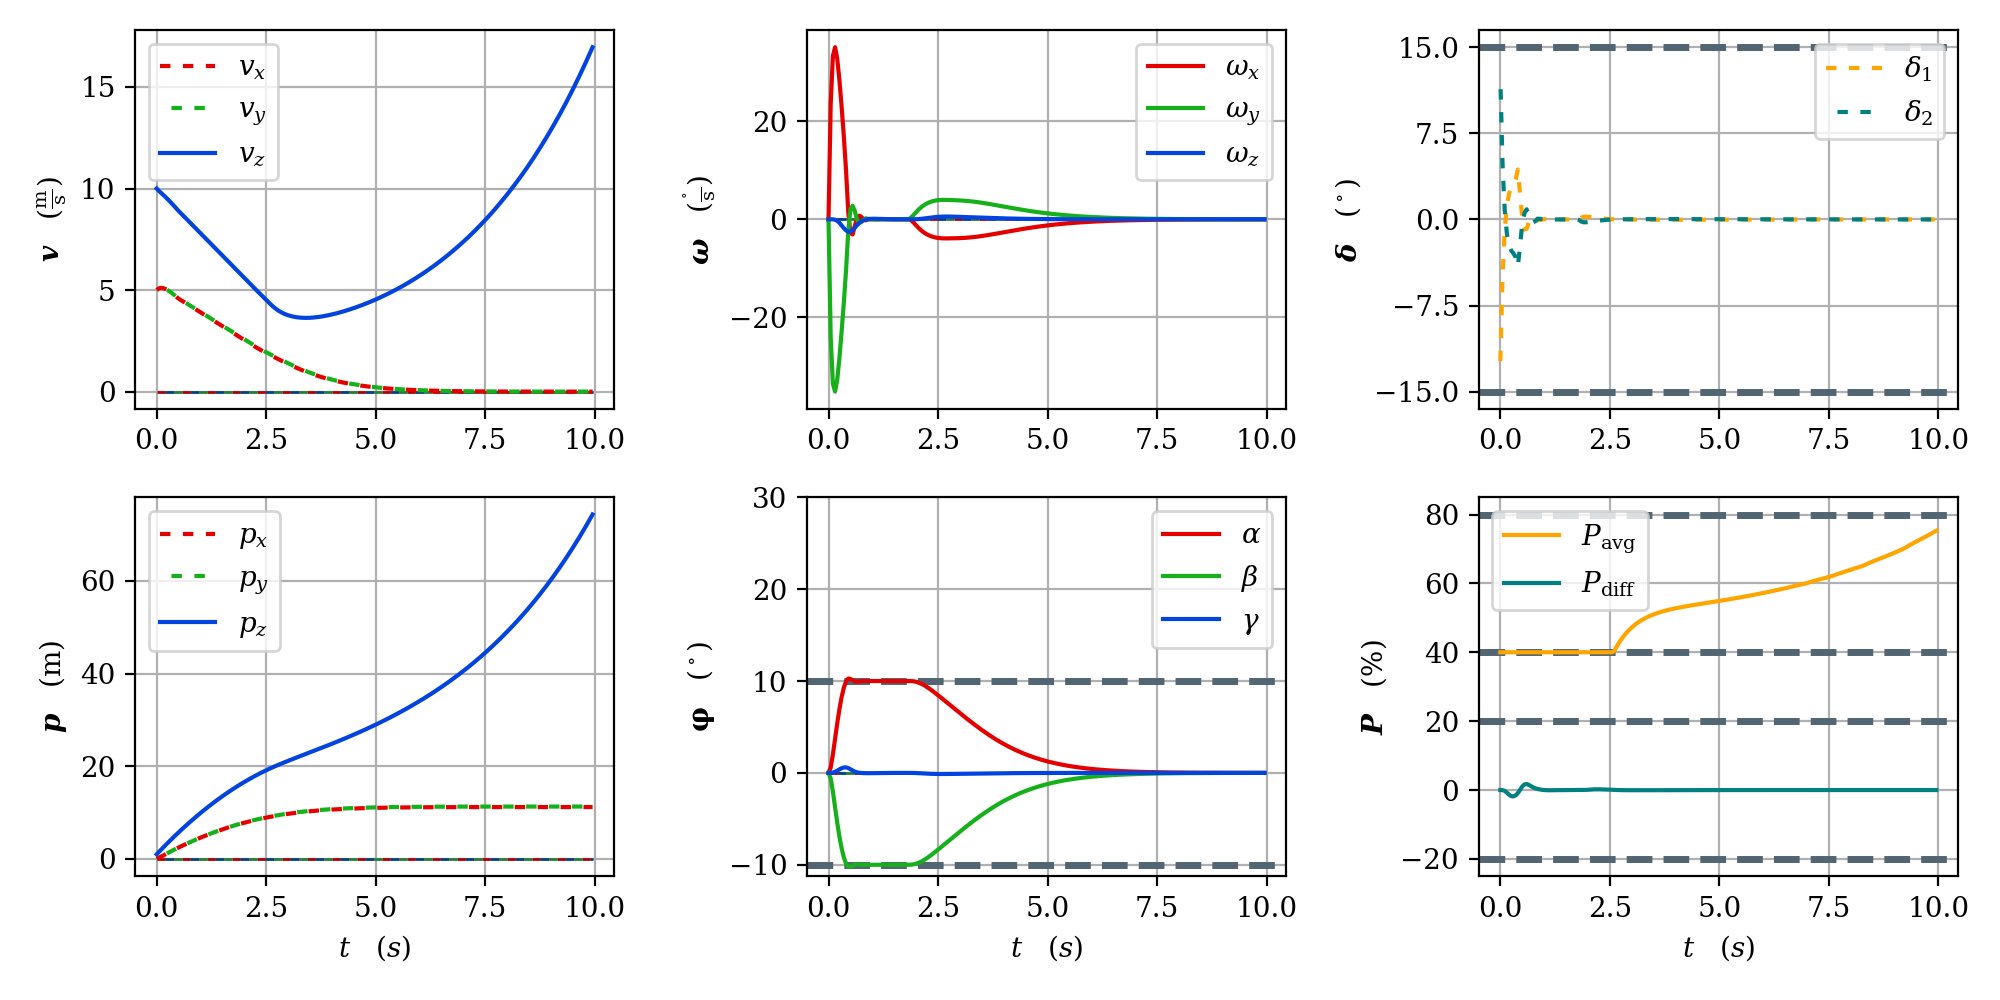
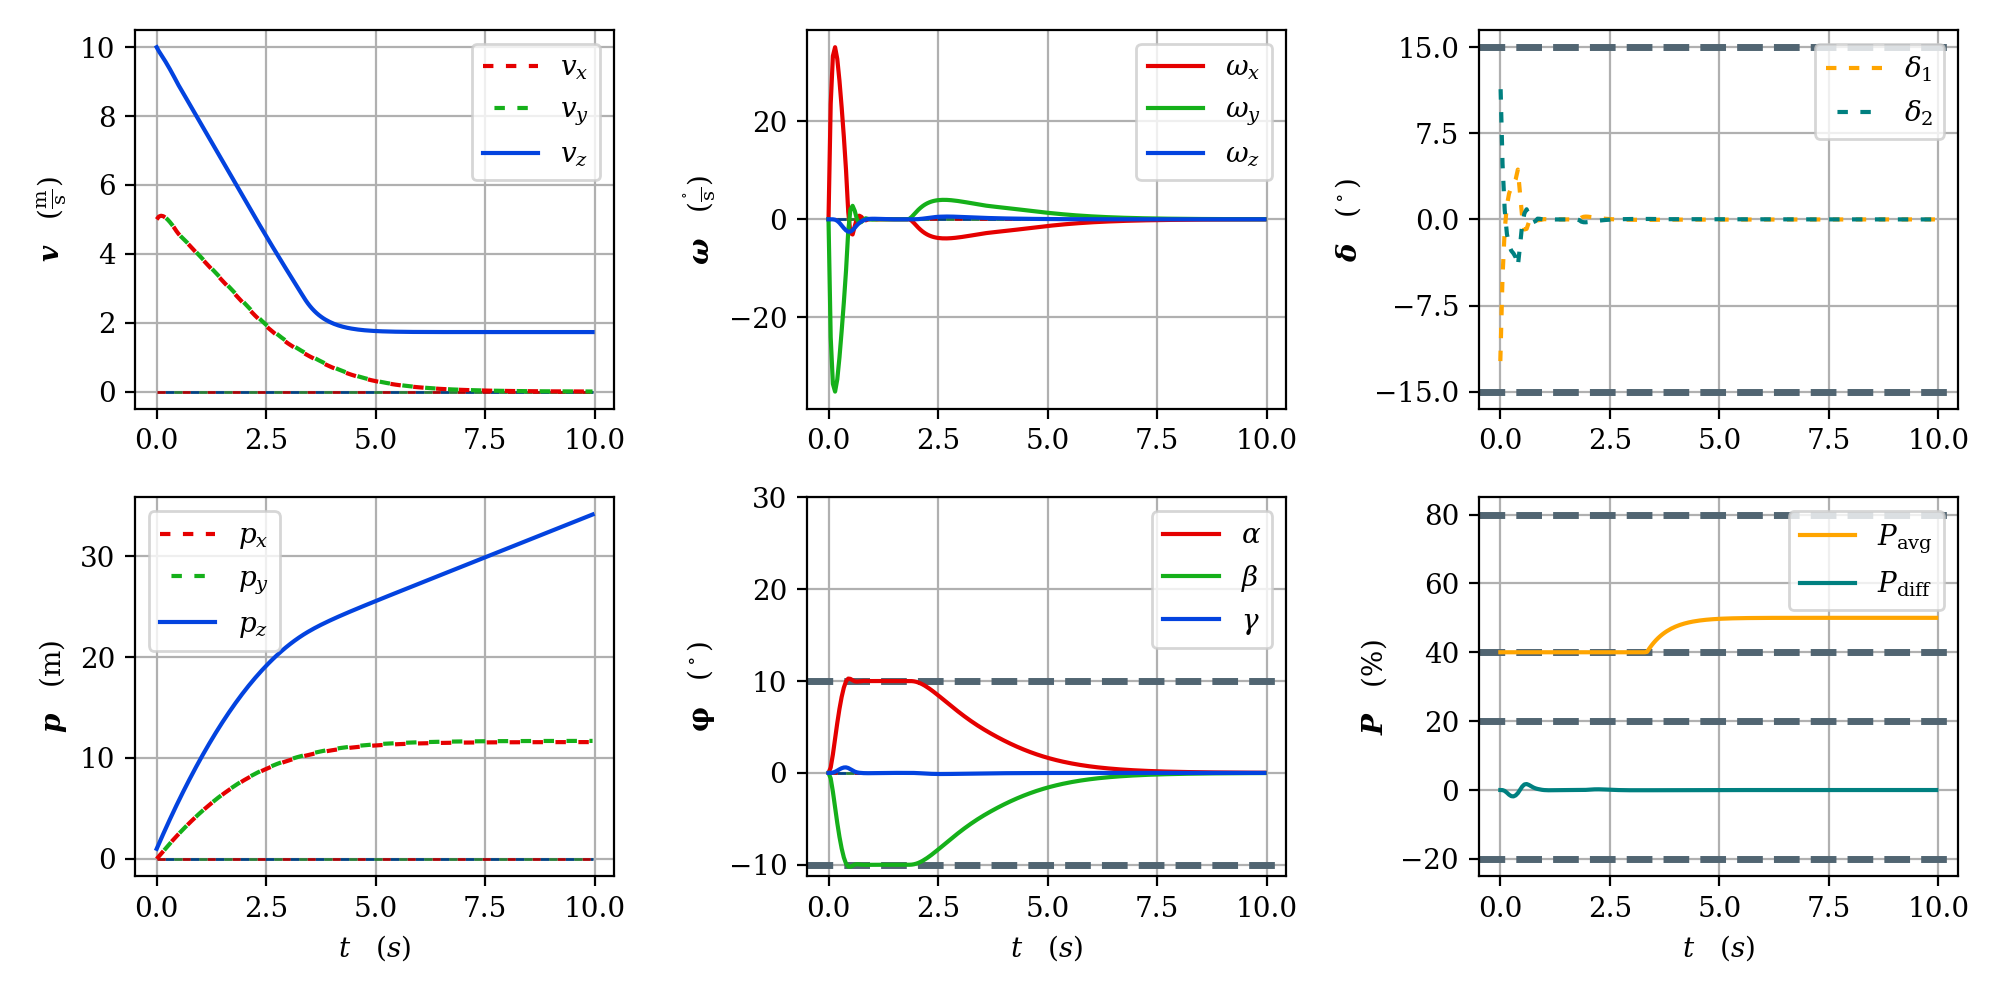
deliverable 5.1 (needs more tuning)

diff --git a/project/Deliverable_5_1/LinearMPC/MPCControl_base.py b/project/Deliverable_5_1/LinearMPC/MPCControl_base.py
@@ -35,6 +35,8 @@ class MPCControl_base:
 		subB = B[np.meshgrid(self.x_ids, self.u_ids)].T
 		self.A, self.B = self._discretize(subA, subB, Ts)
 
+
+
 		# Create optimization variables and parameters with delta formulation
 
 		self.xs_cst	 = cp.Constant(self.xs.reshape(self.NX, 1), name='xs')
@@ -42,10 +44,15 @@ class MPCControl_base:
 		self.dx_var	 = cp.Variable((self.NX, self.N + 1), name='dx')
 		self.x0_par	 = cp.Parameter((self.NX, 1), name='x0')
 		self.xt_par  = cp.Parameter((self.NX, 1), name='xt')
-		self.d_par   = cp.Parameter((1, 1), name='d')
+		self.d_par = cp.Parameter((1, 1), name='d')
 		self.d_par.value = np.zeros((1, 1))
+		self.Bd_par = cp.Parameter((self.NX, 1), name='Bd')
+		self.Bd_par.value = np.zeros((self.NX, 1))
 
-		self.us_cst	= cp.Constant(self.us.reshape(self.NU, 1), name='us')
+
+
+		self.us_par = cp.Parameter((self.NU, 1), name='us')
+		self.us_par.value = self.us.reshape(self.NU, 1)
 		self.u_var 	= cp.Variable((self.NU, self.N), name='u')
 		self.du_var	= cp.Variable((self.NU, self.N), name='du')
 
@@ -59,15 +66,17 @@ class MPCControl_base:
 
 		# Define delta formulation
 
+		dist_term = (self.Bd_par @ self.d_par) @ np.ones((1, self.N))
+
 		dynamics = [
 			self.dx_var			== self.x_var - self.xs_cst - self.xt_par,
-			self.du_var			== self.u_var - self.us_cst,
+			self.du_var == self.u_var - self.us_par,
 			self.dx_var[:, 0] 	== self.x0_par[:, 0] - self.xs_cst[:, 0] - self.xt_par[:, 0],
-			self.dx_var[:, 1:] 	== self.A @ self.dx_var[:, :-1] + self.B @ self.du_var + self.B @ self.d_par,
-		]
+			self.dx_var[:, 1:] == self.A @ self.dx_var[:, :-1] + self.B @ self.du_var + dist_term,
+		 ]
 
 		# Create optimization problem
-		self.setup_estimator()
+
 		terminalCost, constraints = self._get_terminal_cost_and_constraints()
 		self.ocp = cp.Problem(cp.Minimize(cost + terminalCost), dynamics + constraints)
 
@@ -78,12 +87,6 @@ class MPCControl_base:
 	@abstractmethod
 	def _get_terminal_cost_and_constraints(self) -> tuple[Expression, list[Constraint]]:
 		pass
-
-	def setup_estimator(self):
-		pass
-
-	def update_estimator(self, x_data: np.ndarray, u_data: np.ndarray) -> None:
-		self.d_estimate = 0
 
 	@staticmethod
 	def _max_invariant_set(O: Polyhedron, A_cl: np.ndarray, max_iter: int = 30) -> Polyhedron:
@@ -111,37 +114,41 @@ class MPCControl_base:
         u_target: np.ndarray = None
 	) -> tuple[np.ndarray, np.ndarray, np.ndarray]:
 		
-		# Allocate outputs
+		is_zvel = (self.NX == 1) and (int(self.x_ids[0]) == 8) and (int(self.u_ids[0]) == 2)
+
+		self.d_par.value = np.zeros((1, 1))
+
+		if is_zvel:
+			if not hasattr(self, "K"):
+				self.setup_estimator()
+				# Shift steady-state input to cancel disturbance
+				self.us_par.value = self.us.reshape(self.NU, 1) - self.d_estimate / self.B[0, 0]
+
+			if not hasattr(self, "u_last"):
+				self.u_last = np.array([float(self.us[0])])
+
+			self.update_estimator(x0, self.u_last)
+			self.d_par.value = np.array([[self.d_estimate]])
 
 		x_traj = np.zeros((self.NX, self.N + 1))
 		u_traj = np.zeros((self.NU, self.N))
 		x_traj[:, 0] = x0
 
-		# Estimate disturbance
-
-		self.update_estimator()
-		self.d_par.value[0, 0] = self.d_estimate
-
-		# Set target
-
 		self.xt_par.value = x_target.reshape(self.NX, 1)
 
-		# Closed-loop simulation
+		# Solve optimization problem
+		self.x0_par.value = x0.reshape(self.NX, 1)
+		self.ocp.solve(solver=cp.PIQP)
+		assert self.ocp.status == cp.OPTIMAL
 
-		for k in range(self.N):
-
-			# Solve step
-
-			self.x0_par.value = x_traj[:, k].reshape(self.NX, 1)
-			self.ocp.solve(solver=cp.PIQP)
-			assert self.ocp.status == cp.OPTIMAL
-
-			# Save trajectory
-
-			x_traj[:, k + 1] = self.x_var.value[:, 1]
-			u_traj[:, k] = self.u_var.value[:, 0]
-
-		# Return predicted input and trajectories
-
+		# Return open loop prediction
+		x_traj = self.x_var.value
+		u_traj = self.u_var.value
 		u0 = u_traj[:, 0]
+		
+
+		if is_zvel:
+			self.u_last = np.array([float(u0[0])])
+	
 		return u0, x_traj, u_traj
+

diff --git a/project/Deliverable_5_1/LinearMPC/MPCControl_zvel.py b/project/Deliverable_5_1/LinearMPC/MPCControl_zvel.py
@@ -41,21 +41,40 @@ class MPCControl_zvel(MPCControl_base):
 		return terminalCost, constraints
 	
 	def setup_estimator(self):
-        # FOR PART 5 OF THE PROJECT
-        ##################################################
-        # YOUR CODE HERE
+        
+		bd = float(self.Bd_par.value[0, 0])
 
-        self.d_estimate = ...
-        self.d_gain = ...
+		self.A_aug = np.array([
+			[self.A[0, 0], bd],
+			[0.0,          1.0]
+		])
+		self.B_aug = np.array([
+			[self.B[0, 0]],
+			[0.0]
+		])
+		self.C_aug = np.array([[1.0, 0.0]])
 
-		
-        # YOUR CODE HERE
-        ##################################################
+		Qe = np.diag([1e-2, 1e-1])
+		Re = np.array([[1e-4]])
+		P = np.eye(2)
 
-    def update_estimator(self, x_data: np.ndarray, u_data: np.ndarray) -> None:
-        # FOR PART 5 OF THE PROJECT
-        ##################################################
-        # YOUR CODE HERE
-        self.d_estimate = a x + b
-        # YOUR CODE HERE
-        ##################################################
+		for _ in range(200):
+			S = self.C_aug @ P @ self.C_aug.T + Re
+			K = P @ self.C_aug.T @ np.linalg.inv(S)
+			P = self.A_aug @ (P - K @ self.C_aug @ P) @ self.A_aug.T + Qe
+
+		self.K = K
+		self.xd_hat = np.zeros((2, 1))
+		self.d_estimate = 0.0
+		self.x_estimate = 0.0
+
+	def update_estimator(self, x_data, u_data) -> None:
+
+		y = float(np.array(x_data).reshape(-1)[0])
+		u = float(np.array(u_data).reshape(-1)[0])
+
+		y_hat = float(self.C_aug @ self.xd_hat)
+		self.xd_hat = self.A_aug @ self.xd_hat + self.B_aug * u + self.K * (y - y_hat)
+
+		self.x_estimate = float(self.xd_hat[0, 0])
+		self.d_estimate = float(self.xd_hat[1, 0])

diff --git a/project/Deliverable_5_1/LinearMPC/MPCControl_yvel.py b/project/Deliverable_5_1/LinearMPC/MPCControl_yvel.py
@@ -19,6 +19,7 @@ class MPCControl_yvel(MPCControl_base):
 
 	x_ids = np.array([0, 3, 7])
 	u_ids = np.array([0])
+	
 
 	def _get_stage_cost(self) -> tuple[np.ndarray, np.ndarray]:
 		Q = np.exp(LAMBDA) * np.diag([
